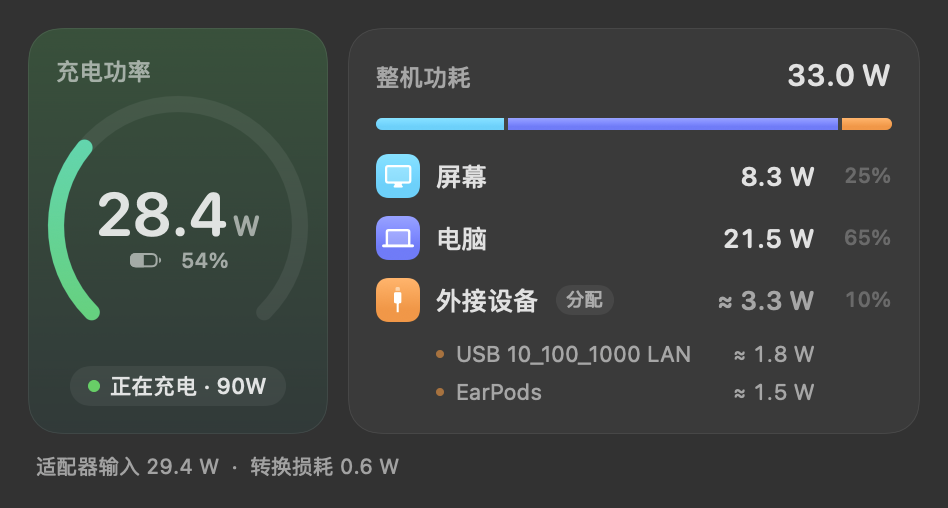
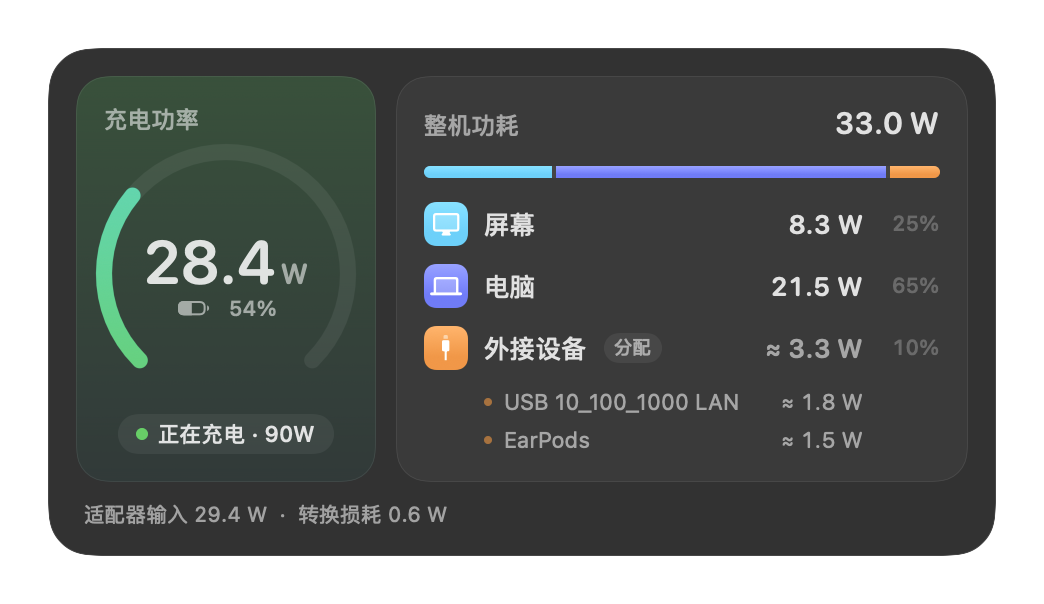
Render README screenshots with the same rounded panel frame
The dark screenshot was rendered without PanelChrome or padding, so it had square corners and a different size. Both appearances now use PanelChrome with 24 pt padding and produce identically sized images.

diff --git a/Sources/WattBar/PanelRenderer.swift b/Sources/WattBar/PanelRenderer.swift
@@ -9,15 +9,9 @@ enum PanelRenderer {
         store.loadPreview(snapshot: snapshot(for: scenario))
 
         let isDark = scenario.hasSuffix("-dark")
-        let content = Group {
-            if isDark {
-                PowerPanelView(store: store)
-                    .background(Color(nsColor: .windowBackgroundColor))
-            } else {
-                PanelChrome(store: store).padding(24)
-            }
-        }
-        .environment(\.colorScheme, isDark ? .dark : .light)
+        let content = PanelChrome(store: store)
+            .padding(24)
+            .environment(\.colorScheme, isDark ? .dark : .light)
         let renderer = ImageRenderer(content: content)
         renderer.scale = 2
         guard let image = renderer.nsImage,
